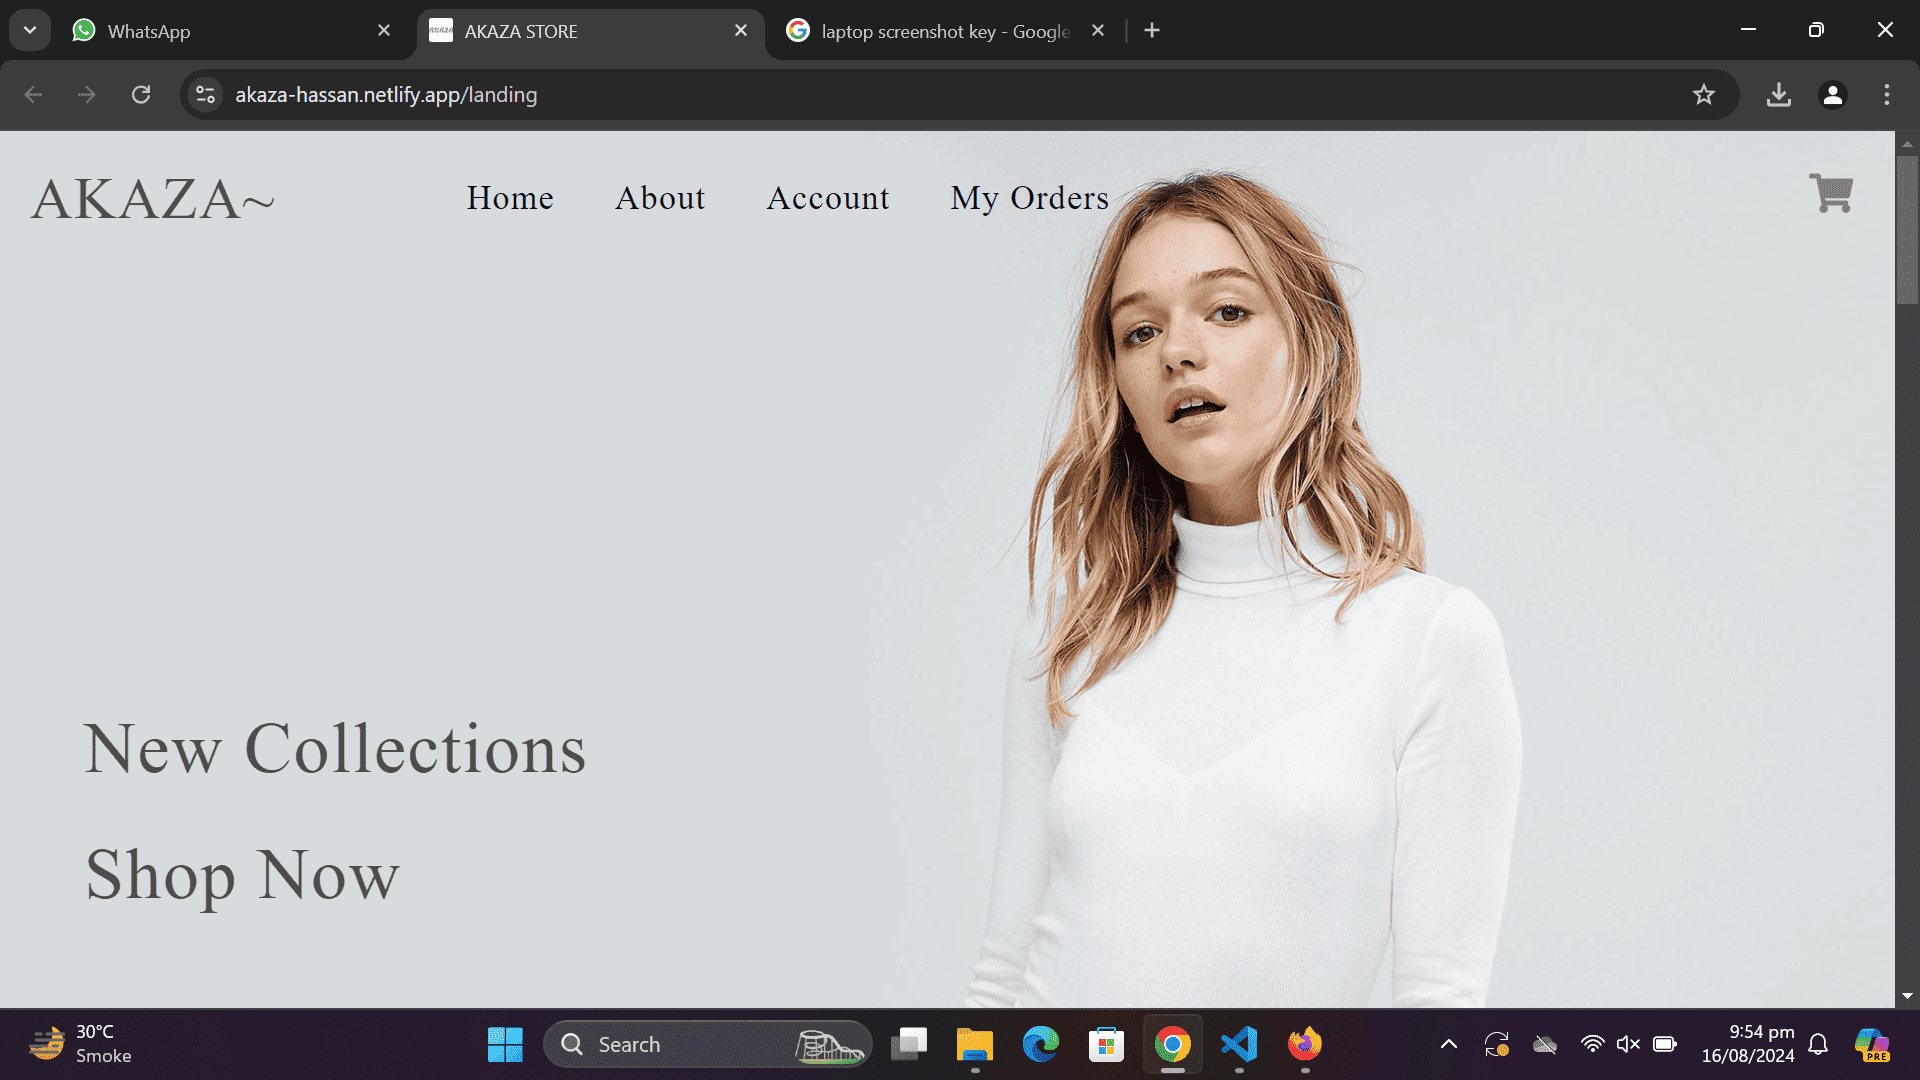
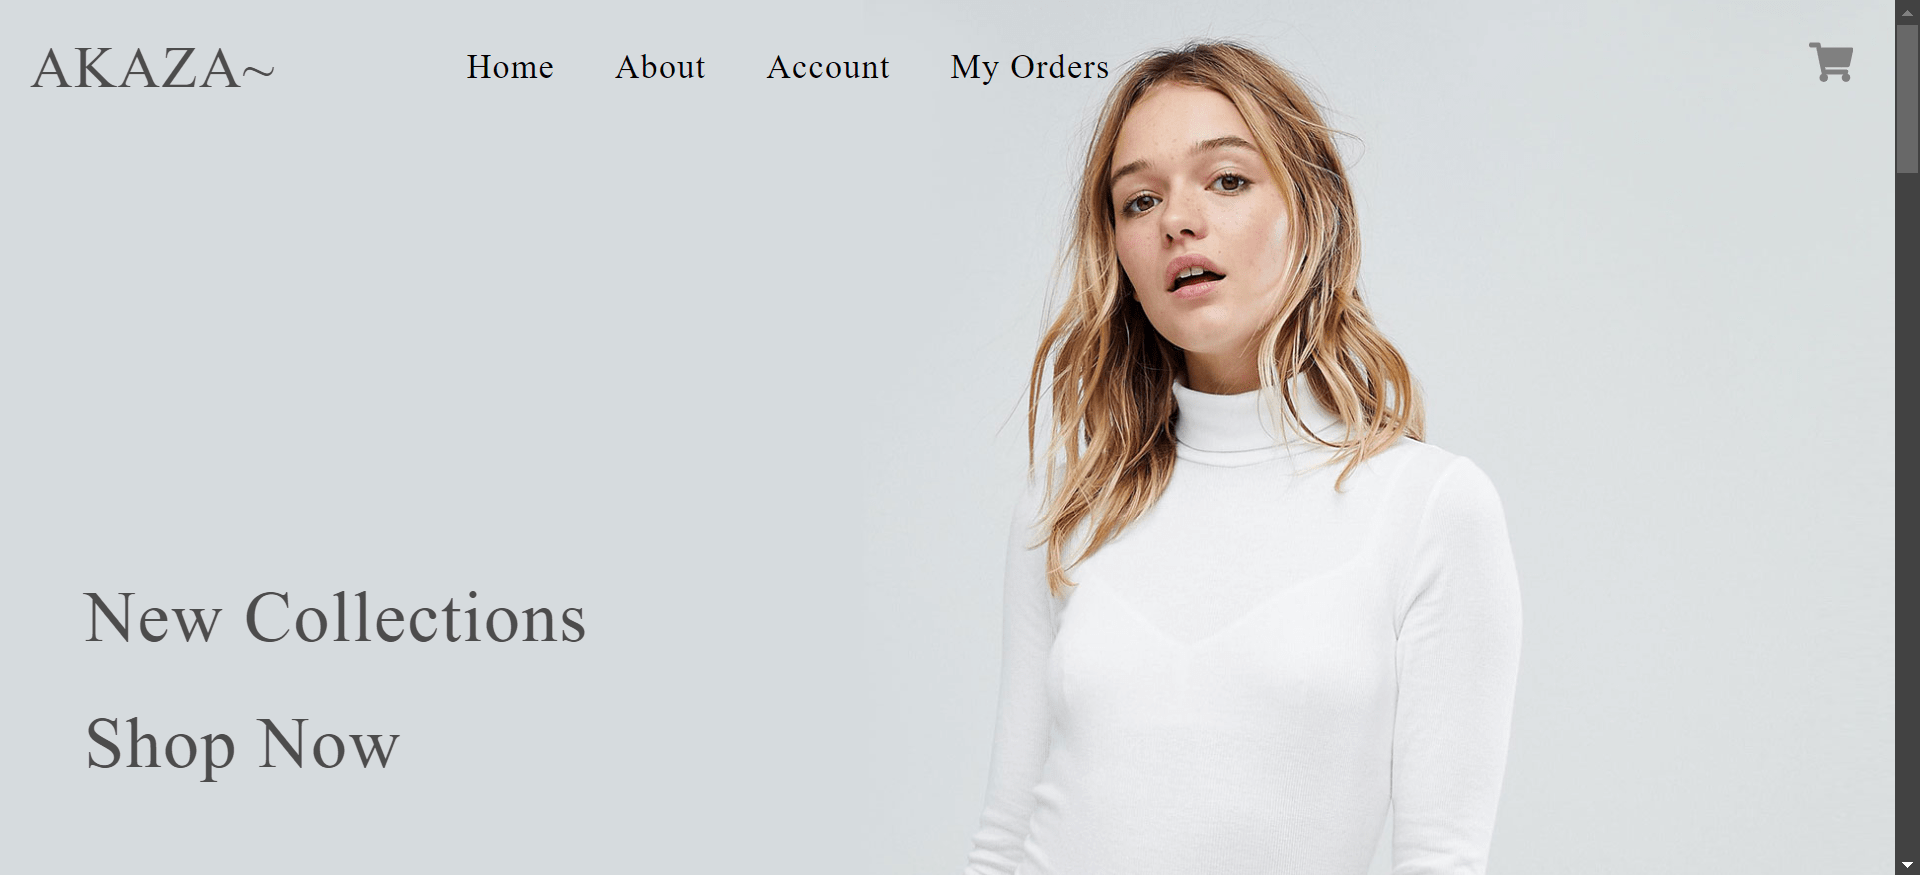
added some fetures

diff --git a/src/pages/Portfolio/Portfolio.js b/src/pages/Portfolio/Portfolio.js
@@ -1,10 +1,9 @@
 import React from 'react'
 import './Portfolio.css'
-import ProjectOne from './Screenshot (1)-min.png';
-import ProjectTwo from './Screenshot (2)-min.png';
-import ProjectThree from './Screenshot (3)-min.png';
-import ProjectFour from './Screenshot (4)-min.png'
-import ProjectFive from './Screenshot (5)-min.png';
+import ProjectOne from './Screenshot (2)-min.png';
+import ProjectTwo from './Screenshot (9)-min.png';
+import ProjectThree from './Screenshot (8)-min.png';
+import ProjectFour from './Screenshot (7)-min.png'
 import Tick from '../Services/icons8-tick-50 (1).png';
 const Portfolio = () => {
   return (
@@ -68,10 +67,10 @@ const Portfolio = () => {
                             {/* <span className='skill-status'>Intermediate</span> */}
                         </div>
                     <div className="multiple-buttons">
-                        <a href="">
+                        <a href="https://github.com/hassanh7n/Akaza-server">
                             <button className='btn-project'>Github Code</button>
                         </a>
-                        <a href="">
+                        <a href="https://akaza-hassan.netlify.app">
                             <button className='btn-project'>View project</button>
                         </a>
                     </div>
@@ -134,10 +133,10 @@ const Portfolio = () => {
                             {/* <span className='skill-status'>Intermediate</span> */}
                         </div>
                         <div className="multiple-buttons">
-                        <a href="">
+                        <a href="https://github.com/hassanh7n/wheels-server">
                             <button className='btn-project'>Github Code</button>
                         </a>
-                        <a href="">
+                        <a href="https://wheels-hassan.netlify.app">
                             <button className='btn-project'>View project</button>
                         </a>
                     </div>
@@ -203,10 +202,10 @@ const Portfolio = () => {
                             {/* <span className='skill-status'>Intermediate</span> */}
                         </div>
                         <div className="multiple-buttons">
-                        <a href="">
+                        <a href="https://github.com/hassanh7n/SocialMedia-server">
                             <button className='btn-project'>Github Code</button>
                         </a>
-                        <a href="">
+                        <a href="https://hassan-socialmedia-app.netlify.app">
                             <button className='btn-project'>View project</button>
                         </a>
                     </div>
@@ -271,10 +270,10 @@ const Portfolio = () => {
                             {/* <span className='skill-status'>Intermediate</span> */}
                         </div>
                         <div className="multiple-buttons">
-                        <a href="">
+                        <a href="https://github.com/hassanh7n/hassan-jobster-backend">
                             <button className='btn-project'>Github Code</button>
                         </a>
-                        <a href="">
+                        <a href="https://jobify-hassan.netlify.app">
                             <button className='btn-project'>View project</button>
                         </a>
                     </div>
@@ -291,7 +290,7 @@ const Portfolio = () => {
 
 
         {/* Fifth project */}
-        <div className="project">
+        {/* <div className="project">
                 <a href="">
                 <img className='project-img' src={ProjectFive} alt="" />
                 <p className='project-discription'>CocktailDB</p>
@@ -303,44 +302,35 @@ const Portfolio = () => {
                                 <img className='service-icon' src={Tick} alt="" />
                                 <p className='service-skill '>Application build using ReactJs</p>
                             </div>
-                            {/* <span className='skill-status'>Advance</span> */}
+                            
                         </div>
                         <div className="html">
                         <div className="section">
                                 <img className='service-icon' src={Tick} alt="" />
                                 <p className='service-skill'>Search filter with React-controlled inputs</p>
                             </div>
-                            {/* <span className='skill-status'>Intermediate</span> */}
                         </div>
                         <div className="html">
                         <div className="section">
                                 <img  className='service-icon' src={Tick} alt="" />
                                 <p className='service-skill'>Scalable application</p>
                             </div>
-                            {/* <span className='skill-status'>Intermediate</span> */}
                         </div>
                     
                     
                     <div className="html">
-                    {/* <div className="section">
-                                <img className='service-icon' src={Tick} alt="" />
-                                <p className='service-skill'></p>
-                            </div> */}
-                            {/* <span className='skill-status'>Intermediate</span> */}
                         </div>
                         <div className="html">
                         <div className="section">
                                 <img className='service-icon' src={Tick} alt="" />
                                 <p className='service-skill'>RESTful API</p>
                             </div>
-                            {/* <span className='skill-status'>Intermediate</span> */}
                         </div>
                         <div className="html">
                         <div className="section">
                                 <img className='service-icon' src={Tick} alt="" />
                                 <p className='service-skill left'>Responsive design</p>
                             </div>
-                            {/* <span className='skill-status'>Intermediate</span> */}
                         </div>
                         <div className="multiple-buttons">
                         <a href="">
@@ -352,7 +342,7 @@ const Portfolio = () => {
                     </div>
                 </div>
                 </div>
-            </div>
+            </div> */}
         </div>
     </div>
   )

diff --git a/src/pages/ContactMe/ContactMe.js b/src/pages/ContactMe/ContactMe.js
@@ -55,8 +55,13 @@ const ContactMe = () => {
                 <h4 className='services-text'>Email</h4>
                 <span>hassannawaz70000@gmail.com</span>
                 <div  className="arrows">
+                    <a className='sign' href="mailto:hassannawaz70000@gmail.com">
+
+
+                    
                     <span>write me </span>
                     <img className='arrow' src={rightArrow} alt="" />
+                    </a>
                 </div>
                 
 
@@ -67,8 +72,10 @@ const ContactMe = () => {
                 <span>+92318-7255068</span>
                 
                 <div className="arrows">
+                    <a className='sign' href="https://wa.me/+923187255068">
                     <span>write me </span>
                     <img className='arrow' src={rightArrow} alt="" />
+                    </a>
                 </div>
                 
             </div>
@@ -77,8 +84,10 @@ const ContactMe = () => {
                 <h4 className='services-text'>Messenger</h4>
                 <span>Hassan Nawaz</span>
                 <div className="arrows">
+                    <a className='sign' href="https://m.me/HassanDev">
                     <span>write me </span>
                     <img className='arrow' src={rightArrow} alt="" />
+                    </a>
                 </div>
             </div>
         </div>

diff --git a/src/pages/AboutMe/AboutMe.js b/src/pages/AboutMe/AboutMe.js
@@ -36,13 +36,13 @@ const AboutMe = () => {
                     <div className="second-two">
                         <h5 className='about-detail'> MERN Stack developer, I design and implement RESTful APIs for seamless integration between front-end and back-end systems. I work closely with UI/UX designers to create responsive and visually appealing user interfaces. Troubleshoot, debug, and optimize code to ensure high performance and reliability.</h5>
                     </div>
-                    <div className="second-three">
+                    {/* <div className="second-three">
                     <button className='about-btn' >
                         
                     <a className='aa' href={Cv} download="Hassan Dev(CV)">Download CV</a>
                         </button>
                         
-                    </div>
+                    </div> */}
                 </div>
         </div>
     </div>

diff --git a/src/pages/Footer/Footer.js b/src/pages/Footer/Footer.js
@@ -39,9 +39,15 @@ const Footer = () => {
                 </Link>
             </div>
             <div className="footer-first">
+                <a href="https://github.com/hassanh7n">
                 <img className='footer-icon' src={Github} alt="" />
+                </a>
+                <a href="https://www.instagram.com/hassandev70000/">
                 <img className='footer-icon' src={Instagram} alt="" />
+                </a>
+                <a href="https://www.linkedin.com/in/hassan-dev-972187330/">
                 <img className='footer-icon' src={Linkedin} alt="" />
+                </a>
             </div>
            
         </div>

diff --git a/src/pages/Banner/Banner.js b/src/pages/Banner/Banner.js
@@ -17,7 +17,7 @@ const Banner = () => {
             <a href="https://www.instagram.com/hassandev70000/">
                 <img className='social_icon' src={Instagram} alt="" />
             </a>
-            <a href="https://www.facebook.com/profile.php?id=61566561445596">
+            <a href="https://www.linkedin.com/in/hassan-dev-972187330/">
                 <img className='social_icon' src={LinkedIn} alt="" />
             </a>
         </div>

diff --git a/src/pages/ContactMe/ContactMe.css b/src/pages/ContactMe/ContactMe.css
@@ -89,6 +89,9 @@
    cursor: pointer;
    font-family: 'Lucida Sans', 'Lucida Sans Regular', 'Lucida Grande', 'Lucida Sans Unicode', Geneva, Verdana, sans-serif;
 }
+.sign{
+    cursor: pointer;
+}
 @media screen and (max-width: 892px){
     .contact-main{
         flex-direction: column;

diff --git a/src/index.css b/src/index.css
@@ -11,3 +11,6 @@ code {
   font-family: source-code-pro, Menlo, Monaco, Consolas, 'Courier New',
     monospace;
 }
+a{
+  cursor: pointer;
+}

diff --git a/README.md b/README.md
@@ -1,2 +1,3 @@
 facebook = https://www.facebook.com/profile.php?id=61566561445596
 instagram = https://www.instagram.com/hassandev70000/
+
